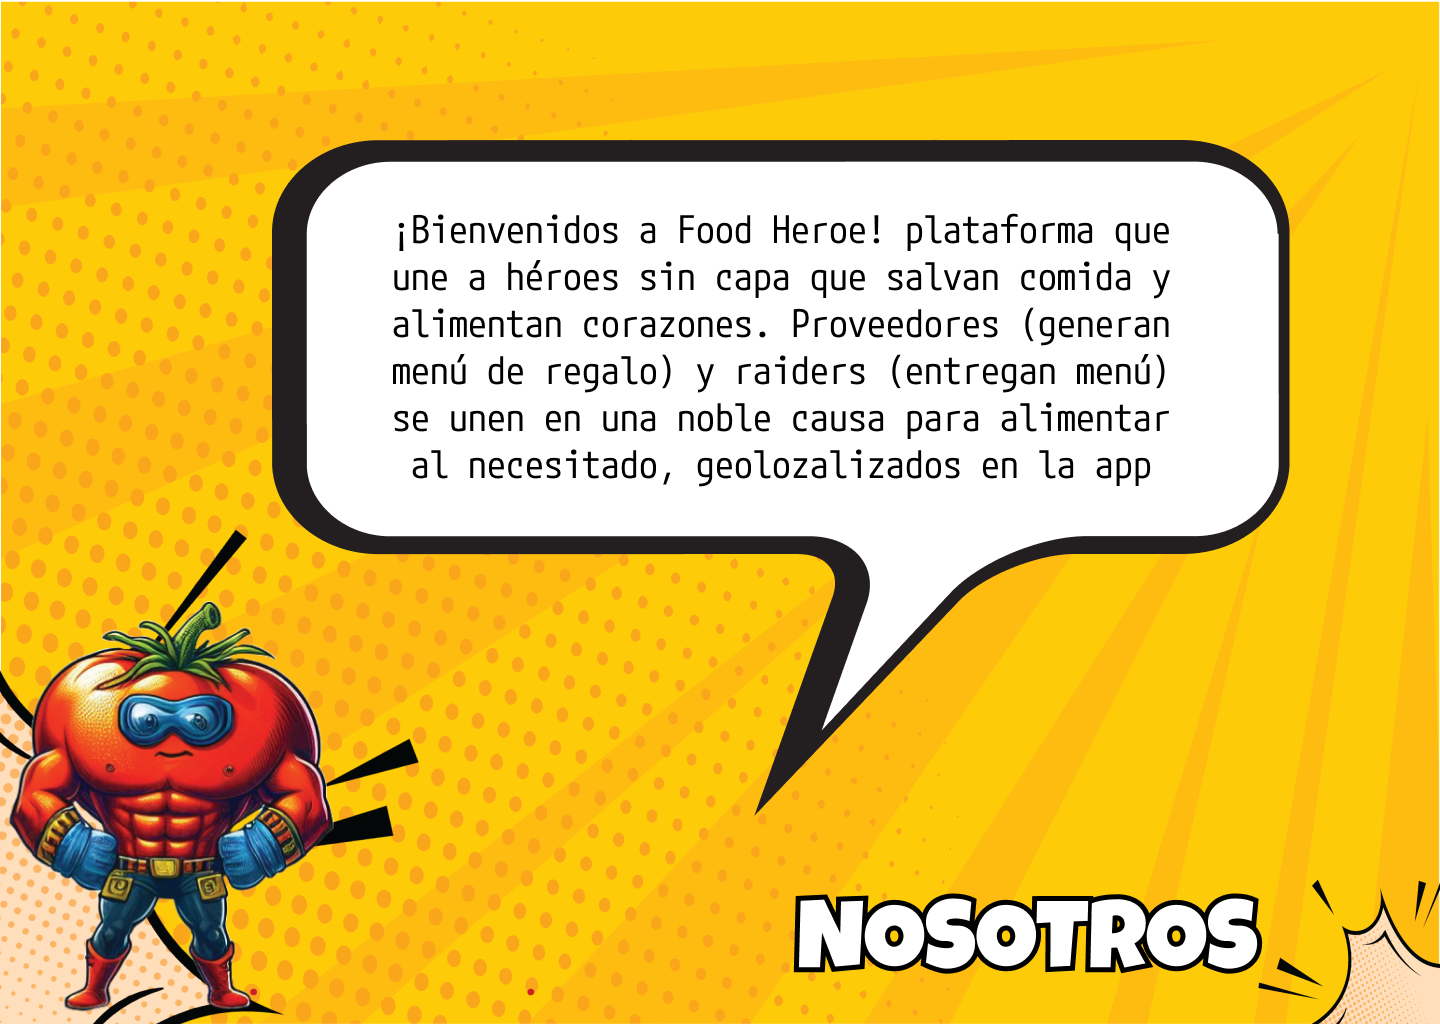
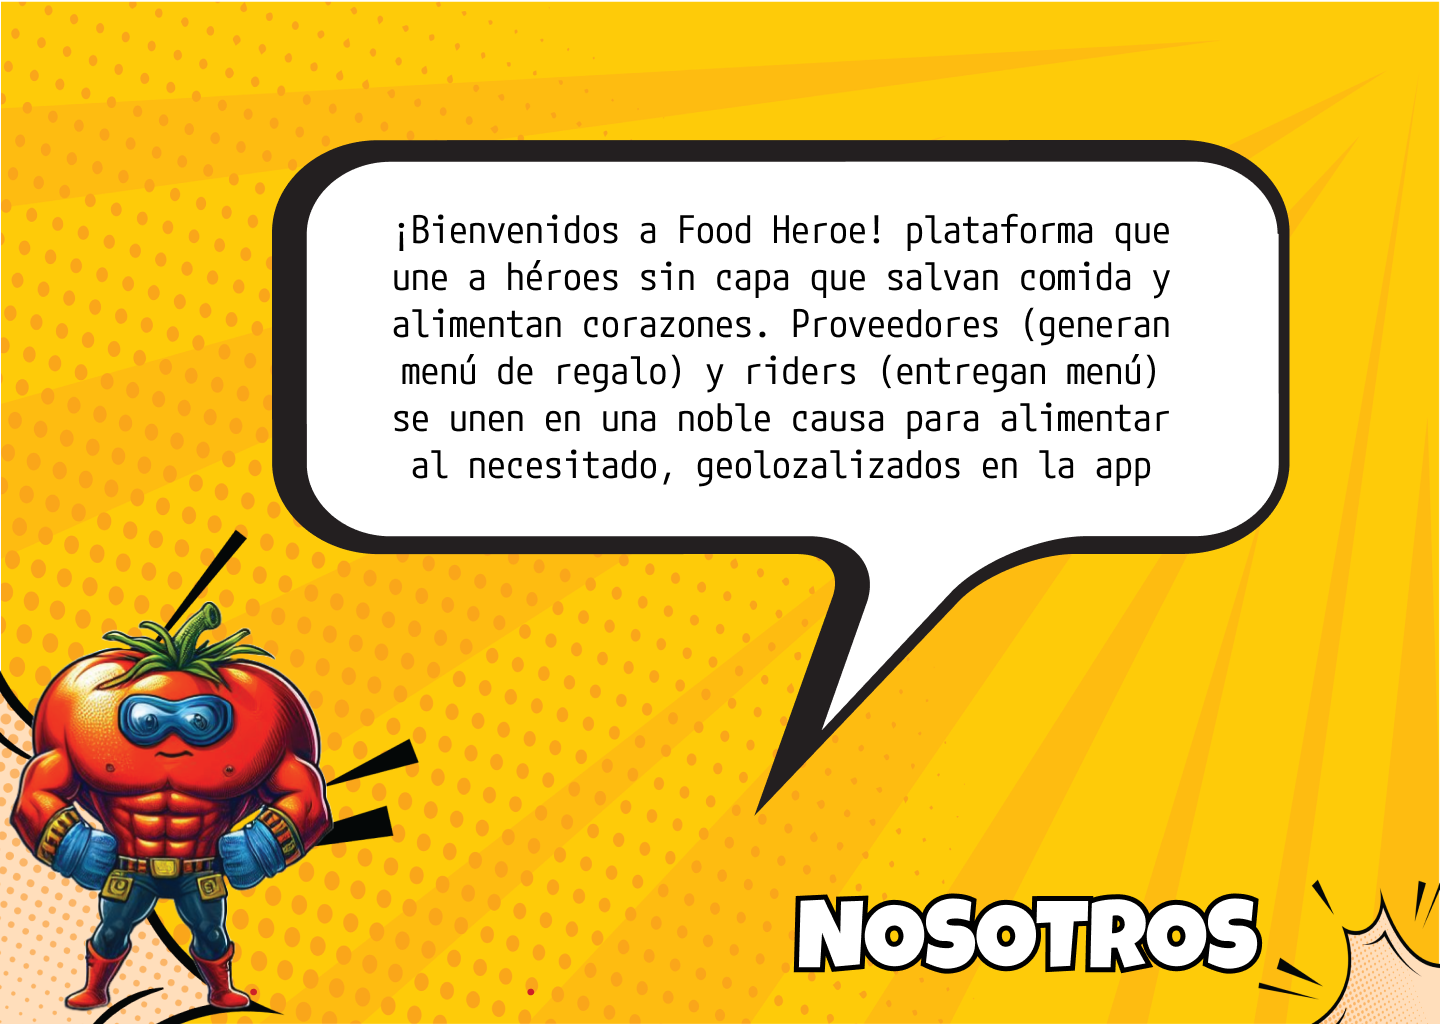
cambios landing palabra rider

Changed region(s): [[0.25, 0.3438, 0.8125, 0.375]]

diff --git a/resources/views/landing.blade.php b/resources/views/landing.blade.php
@@ -29,7 +29,7 @@
           <div class="navbar-nav">
             <a class="nav-link" href="#home">Home</a>
             <a class="nav-link" href="#nosotros">Nosotros</a>
-            <a class="nav-link" href="#raider">Raider</a>
+            <a class="nav-link" href="#raider">Rider</a>
             <a class="nav-link" href="#proveedor">Proveedor</a>
             <a class="nav-link" href="#footer">Unete</a>
             <a class="nav-link"  href="{{ route('login') }}" style="color: black;">Ir al APP</a>
@@ -57,7 +57,7 @@
 
     <section id="raider" class="contenedor-seccion">
       <div class="contenedor-imagen">
-        <img src="{{ asset('img/raider.png') }}" alt="">
+        <img src="{{ asset('img/rider.png') }}" alt="">
         <p class="parrafo"> Nuestros riders, a través de nuestro app, al momento de identificar un persona en necesidad, pueden crear un punto geolocalizado de entrega 
           (denominado "pua"), además la posibilidad de repartir un menú solidario creado por un proveedor 
         </p>
